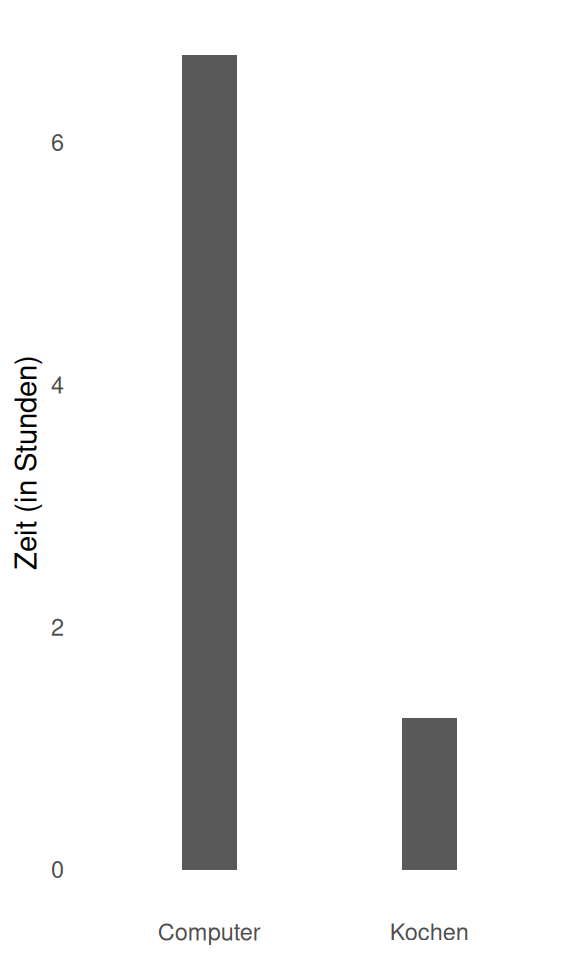
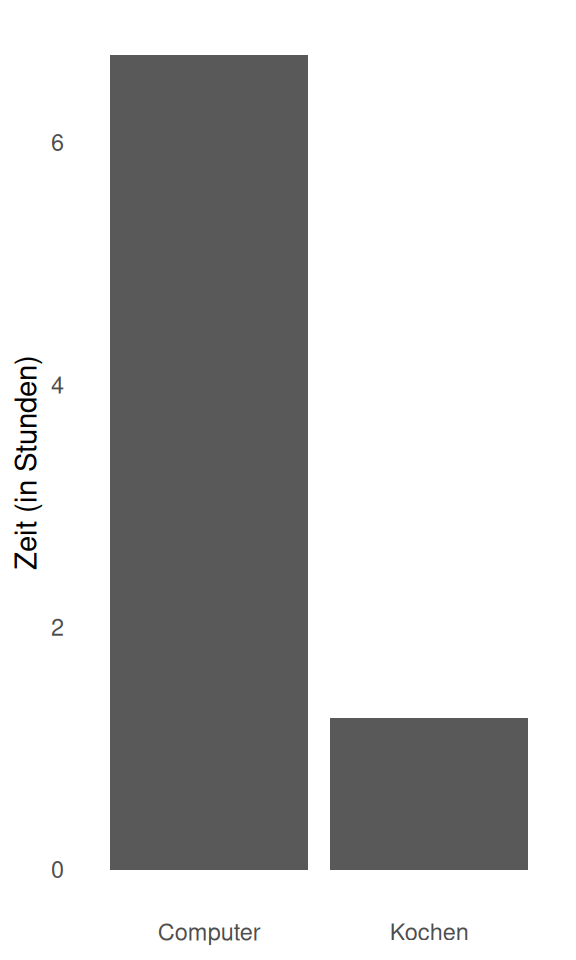
Built site for gh-pages

Changed region(s): [[0.4062, 0.0312, 0.7188, 0.9062], [0.1875, 0.0312, 0.3438, 0.9062], [0.7812, 0.75, 0.9375, 0.9062]]

diff --git a/index.html b/index.html
@@ -294,13 +294,6 @@
 <aside class="notes">
 <ul>
 <li>Hinweis: proprietäre Zutaten, vorgeschriebene Geräte, Warnhinweise zu Ersatzprodukten, geplante Obsoleszenz. Das sollte sich lächerlich anhören.</li>
-<li>Wenn man ihn darauf anspricht, hat der Gastgeber folgende Argumente:
-<ul>
-<li>Mit dieser Methode weiß ich, dass das Essen großartig wird. Ich habe nichts dagegen, dafür ein wenig Freiheit zu opfern.</li>
-<li>Wenn ich selbst kochen wollte, müsste ich so viele Details lernen. Dafür habe ich keine Zeit.</li>
-<li>Alle, die ich kenne, kochen so.<em>Das wurde uns in der Schule so beigebracht.</em></li>
-</ul></li>
-<li>Wir würden ein solches System im Bereich des Kochens <em>NIEMALS</em>tolerieren</li>
 </ul>
 <style type="text/css">
         span.MJX_Assistive_MathML {
@@ -331,7 +324,17 @@
 </ul>
 </div>
 <aside class="notes">
-<p>– Verständnis vs.&nbsp;blindes Befolgen. Beachten Sie die Flexibilität – Ersatzprodukte sind willkommen. So sieht Open Source aus.</p>
+<ul>
+<li>Verständnis vs.&nbsp;blindes Befolgen. Beachten Sie die Flexibilität</li>
+<li>Ersatzprodukte sind willkommen. So sieht Open Source aus.</li>
+<li>Wenn man ihn darauf anspricht, hat der Gastgeber folgende Argumente:
+<ul>
+<li>Mit dieser Methode weiß ich, dass das Essen großartig wird. Ich habe nichts dagegen, dafür ein wenig Freiheit zu opfern.</li>
+<li>Wenn ich selbst kochen wollte, müsste ich so viele Details lernen. Dafür habe ich keine Zeit.</li>
+<li>Alle, die ich kenne, kochen so. <em>Das wurde uns in der Schule so beigebracht.</em></li>
+</ul></li>
+<li>Wir würden ein solches System im Bereich des Kochens <em>NIEMALS</em> tolerieren</li>
+</ul>
 <style type="text/css">
         span.MJX_Assistive_MathML {
           position:absolute!important;
@@ -347,9 +350,9 @@
 <section id="kochen-vs.-computer" class="slide level2" data-background-color="white">
 <h2>Kochen vs.&nbsp;Computer</h2>
 
-<img data-src="index_files/figure-revealjs/unnamed-chunk-1-1.png" width="288" class="r-stretch quarto-figure-center"><p class="caption">Täglich investierte Zeit: Kochen vs.&nbsp;Computer Ratnaweera et al (2025), n = 1</p><aside class="notes">
+<img data-src="index_files/figure-revealjs/unnamed-chunk-1-1.png" width="288" class="r-stretch quarto-figure-center"><p class="caption">Täglich investierte Zeit: Kochen vs.&nbsp;Computer nach Ratnaweera et al (2025), n = 2</p><aside class="notes">
 <ul>
-<li>Wir verbringen<em>viel</em>mehr Zeit am Computer als mit Kochen.</li>
+<li>Wir verbringen <em>viel</em> mehr Zeit am Computer als mit Kochen.</li>
 <li>Warum lassen wir das im digitalen Bereich zu?</li>
 </ul>
 <style type="text/css">
@@ -370,6 +373,7 @@
 <section id="das-muster-wiederholt-sich" class="slide level2">
 <h2>Das Muster wiederholt sich</h2>
 <ul>
+<li>Wir kennen keine Betriebssysteme, wir kennen nur <em>Windows</em></li>
 <li>Wir verwenden keine Textverarbeitungsprogramme, wir verwenden <em>Microsoft Word</em></li>
 <li>Wir verwenden keine Messenger, sondern <em>WhatsApp</em></li>
 </ul>
@@ -379,7 +383,16 @@
 </ul>
 </div>
 <aside class="notes">
-
+<ul>
+<li>Übung: Alle aufstehen.</li>
+<li>Alle hinsetzen, die kein Whatsapp installiert haben</li>
+<li>Wieder aufstehen</li>
+<li>Alle hinsetzen, die kein Telegramm installiert haben</li>
+<li>wieder aufstehen</li>
+<li>Alle hinsetzen, die kein Threema installiert haben</li>
+<li>Alle aufstehen</li>
+<li>Alle hinsetzen, die kein Signal installiert haben</li>
+</ul>
 <style type="text/css">
         span.MJX_Assistive_MathML {
           position:absolute!important;
@@ -421,9 +434,10 @@
           display:block!important;
       }</style></aside>
 </section>
-<section id="vendor-lock-in" class="slide level2" data-background="images/Push-and-pull.jpg">
+<section id="vendor-lock-in" class="slide level2">
 <h2>Vendor Lock-In</h2>
-<aside class="notes">
+
+<img data-src="images/Push-and-pull.jpg" class="r-stretch"><aside class="notes">
 <ul>
 <li>Anbieter wollen nicht, dass Sie plattformunabhängig sind.</li>
 <li>Sie machen ihre Produkte absichtlich mit denen anderer Anbieter inkompatibel.</li>
@@ -539,6 +553,8 @@
 <h2></h2>
 <aside class="notes">
 <ul>
+<li>Dazu noch eine Side-Note: Tausende von Freiwillige bieten workshops an um den Umstieg von Windows 10 auf Linux zu vereinfachen.</li>
+<li>Mein Vater hilft natürlich mit :-)</li>
 <li>(Überleitung: Einwand)</li>
 </ul>
 <style type="text/css">
@@ -701,19 +717,6 @@
 <section id="praktische-demo-1" class="title-slide slide level1 shadow blurred-5px center" data-background-image="images/magic-note-8836935_1280.jpg">
 <h1>Praktische Demo 1</h1>
 <p><span class="shadow">OpenSource in der Cloud</span></p>
-<aside class="notes">
-<p>Opensource Cloud AI</p>
-<style type="text/css">
-        span.MJX_Assistive_MathML {
-          position:absolute!important;
-          clip: rect(1px, 1px, 1px, 1px);
-          padding: 1px 0 0 0!important;
-          border: 0!important;
-          height: 1px!important;
-          width: 1px!important;
-          overflow: hidden!important;
-          display:block!important;
-      }</style></aside>
 </section>
 <section id="section-14" class="slide level2" data-background-image="images/magic-note-8836935_1280.jpg">
 <h2></h2>
@@ -756,9 +759,12 @@
 <h2></h2>
 <aside class="notes">
 <ul>
-<li>Opensource Lokale KI</li>
-<li>OS Cloud KI sind zwar super, aber mit vorsicht zu geniessen. Sensible Daten wandern trotzdem ab und können für Trainingszwecken verwendet werden</li>
-<li>Lokale LLMs sind hier die Lösung</li>
+<li><p>Opensource Lokale KI</p></li>
+<li><p>OS Cloud KI sind zwar super, aber mit vorsicht zu geniessen. Sensible Daten wandern trotzdem ab und können für Trainingszwecken verwendet werden</p></li>
+<li><p>Lokale LLMs sind hier die Lösung</p></li>
+<li><p>Wir arbeiten erstmals im Terminal.</p></li>
+<li><p>Steiler einstieg, es gibt auch GUIS</p></li>
+<li><p>aber der Terminal öffnet uns Tür und Tor für FOSS</p></li>
 </ul>
 <style type="text/css">
         span.MJX_Assistive_MathML {
@@ -1031,12 +1037,12 @@
 <section id="praktische-demo-4" class="title-slide slide level1 shadow blurred-5px center" data-background-image="images/magic-note-8836935_1280.jpg">
 <h1>Praktische Demo 4</h1>
 <p><span class="shadow">LLM auf dem HPC</span></p>
-<p><span class="shadow">https://wiki.hpc.zhaw.ch/hpcuserwiki</span></p>
+<p><span class="shadow"><a href="https://wiki.hpc.zhaw.ch/hpcuserwiki">wiki.hpc.zhaw.ch/hpcuserwiki</a></span></p>
 <aside class="notes">
 <ul>
 <li>Wir haben für alle einen HPC account erstellt</li>
 <li>Folgende Schritte ausführen (next slide)</li>
-<li>(zuerst passwort ändern)</li>
+<li>(zuerst passwort ändern, sie wiki)</li>
 </ul>
 <style type="text/css">
         span.MJX_Assistive_MathML {
@@ -1052,6 +1058,7 @@
 </section>
 <section id="section-18" class="slide level2" data-background-image="images/magic-note-8836935_1280.jpg">
 <h2></h2>
+<aside class="notes">
 <pre><code>ssh rata@login-rhel8.hpc.zhaw.ch
 
 srun --partition=earth-4 --qos=earth-4.8h --gres=gpu:2 --mem=32G --time=8:00:00 --chdir $LSFM_CLUSTER_SCRATCH_USER_PATH/ollama --pty bash 
@@ -1066,6 +1073,17 @@ cd $LSFM_CLUSTER_SCRATCH_USER_PATH/ollama
 ollama list
 
 ollama run </code></pre>
+<style type="text/css">
+        span.MJX_Assistive_MathML {
+          position:absolute!important;
+          clip: rect(1px, 1px, 1px, 1px);
+          padding: 1px 0 0 0!important;
+          border: 0!important;
+          height: 1px!important;
+          width: 1px!important;
+          overflow: hidden!important;
+          display:block!important;
+      }</style></aside>
 </section></section>
 <section>
 <section id="viele-wege-raus-aus-rom" class="title-slide slide level1 shadow blurred-5px center" data-background-image="images/italy-9505450_1280.jpg">
@@ -1083,7 +1101,7 @@ ollama run </code></pre>
     </div>
   <div class="quarto-auto-generated-content" style="display: none;">
 <div class="footer footer-default">
-
+<p>zhaw-lsfm.github.io/foss-llm</p>
 </div>
 </div></div>
 
